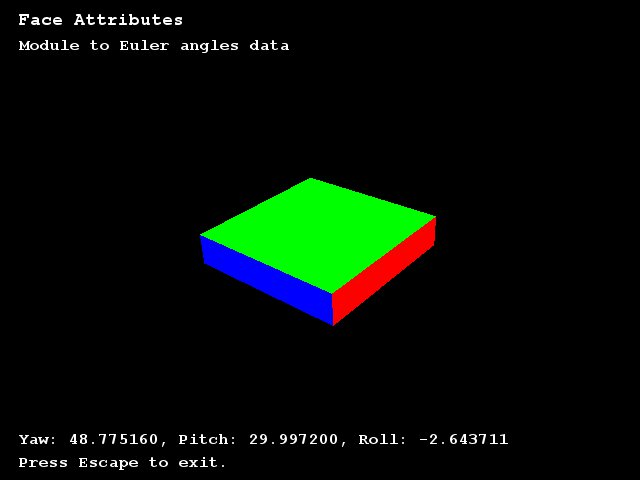
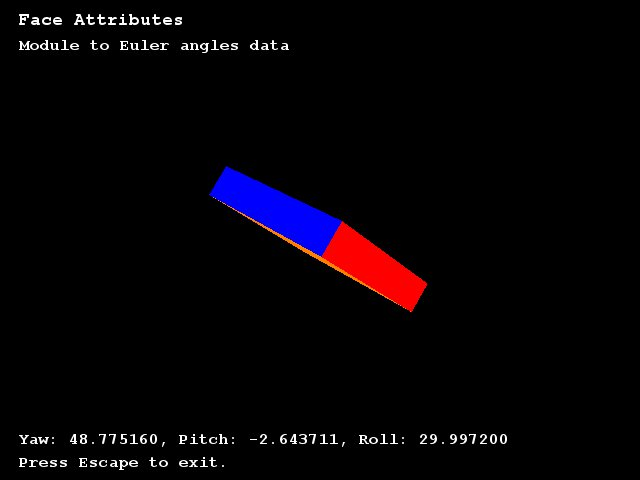
update

Changed region(s): [[0.3125, 0.3438, 0.6875, 0.6875], [0.6562, 0.9062, 0.8125, 0.9375], [0.375, 0.9062, 0.5312, 0.9375]]

diff --git a/rotate_cube.py b/rotate_cube.py
@@ -24,8 +24,8 @@ def main():
 
     for i in range(10):
         item = data[i]
-        pitch = item['out'][0]
-        roll = item['out'][1]
+        pitch = item['out'][1]
+        roll = item['out'][0]
         yaw = -item['out'][2]
         draw(1, yaw, pitch, roll)
         pygame.image.save(screen, "images/{}_angle.jpg".format(i))
